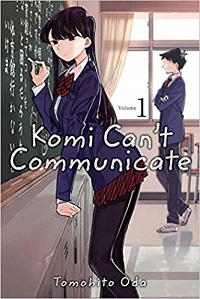
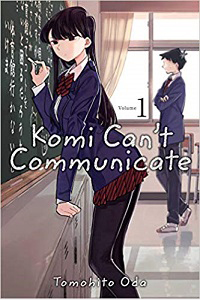
image resize

diff --git a/index.php b/index.php
@@ -17,10 +17,7 @@
         header{
             border-bottom: 2px solid #ffc107 !important;
         }
-        img.card-img-top{
-            width:200px !important;
-            height:300px !important;
-        }
+        
         
     </style>
 </head>
@@ -81,7 +78,6 @@
                                     while($row = mysqli_fetch_array($result)){
 
                                 ?>
-                                <!-- <a href="item.php"> -->
                                     <div class="card mx-2 border border-warning">
                                         <img class="card-img-top" src="<?php echo $row['productImage']; ?>" alt="">
                                         <div class="card-body text-center">
@@ -93,7 +89,6 @@
                                             </form>
                                         </div> 
                                     </div>
-                                <!-- </a> -->
                                 <?php 
                                     }}
                                 ?>
